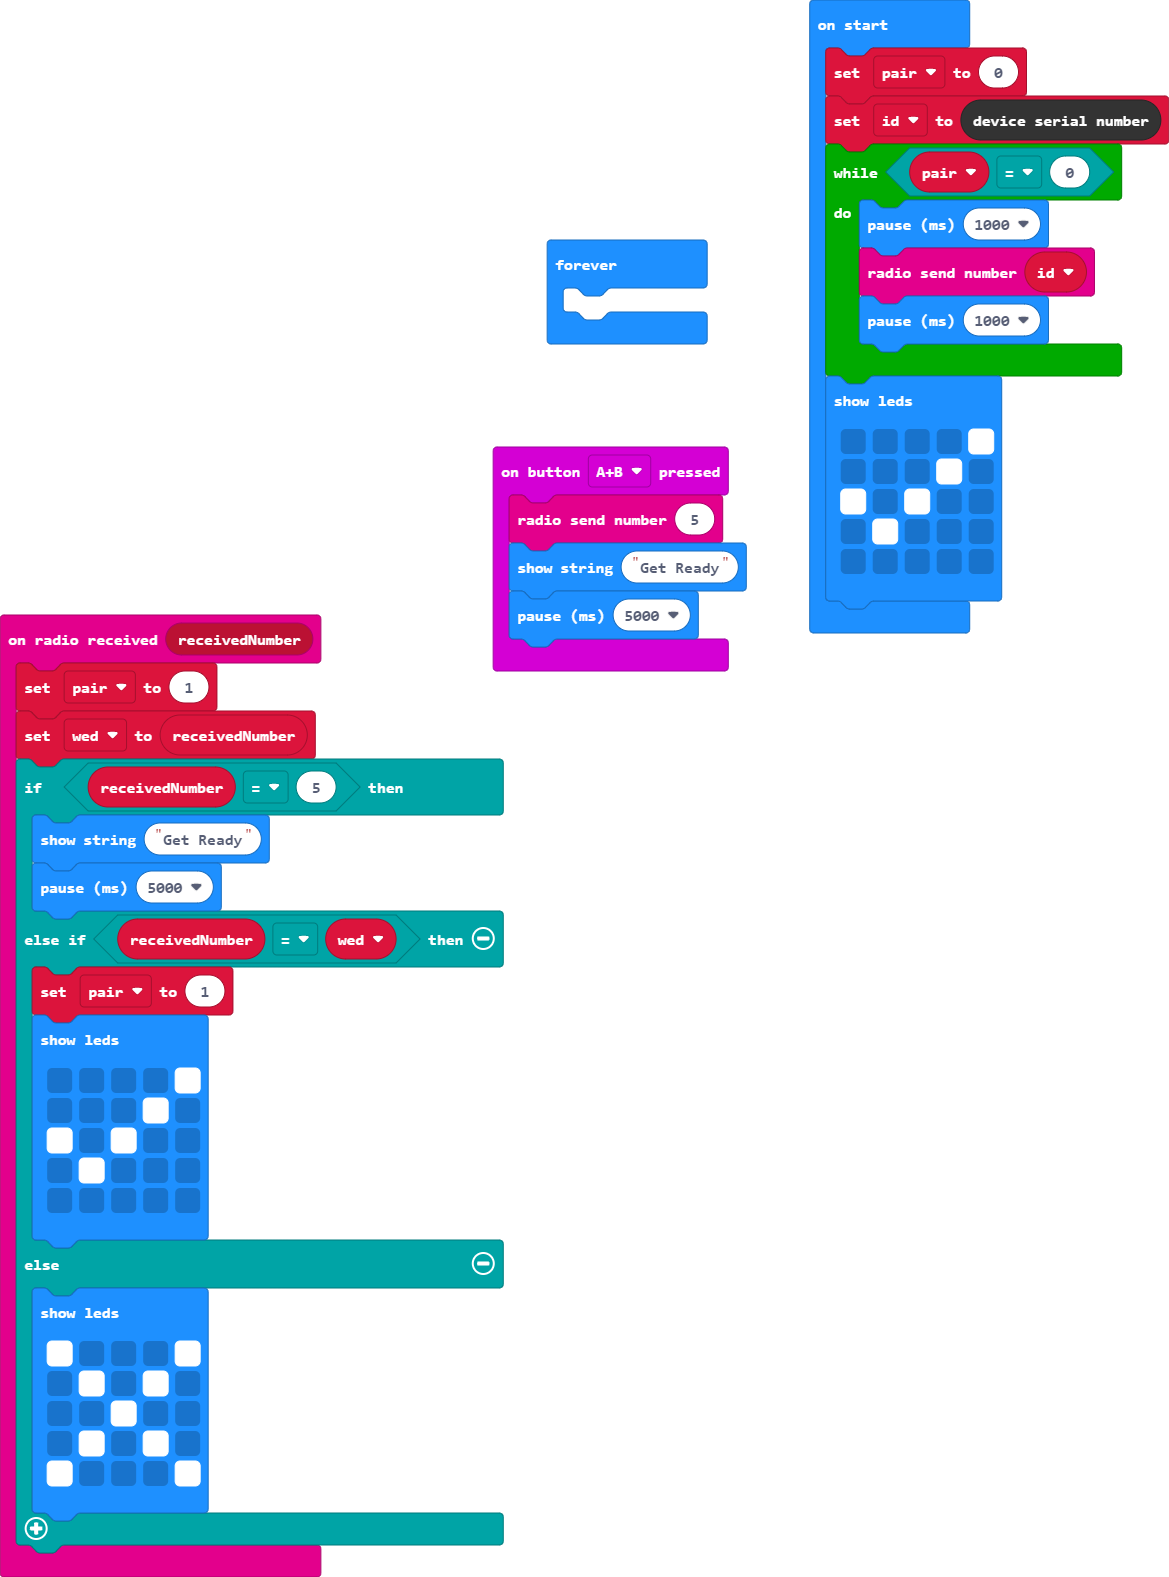
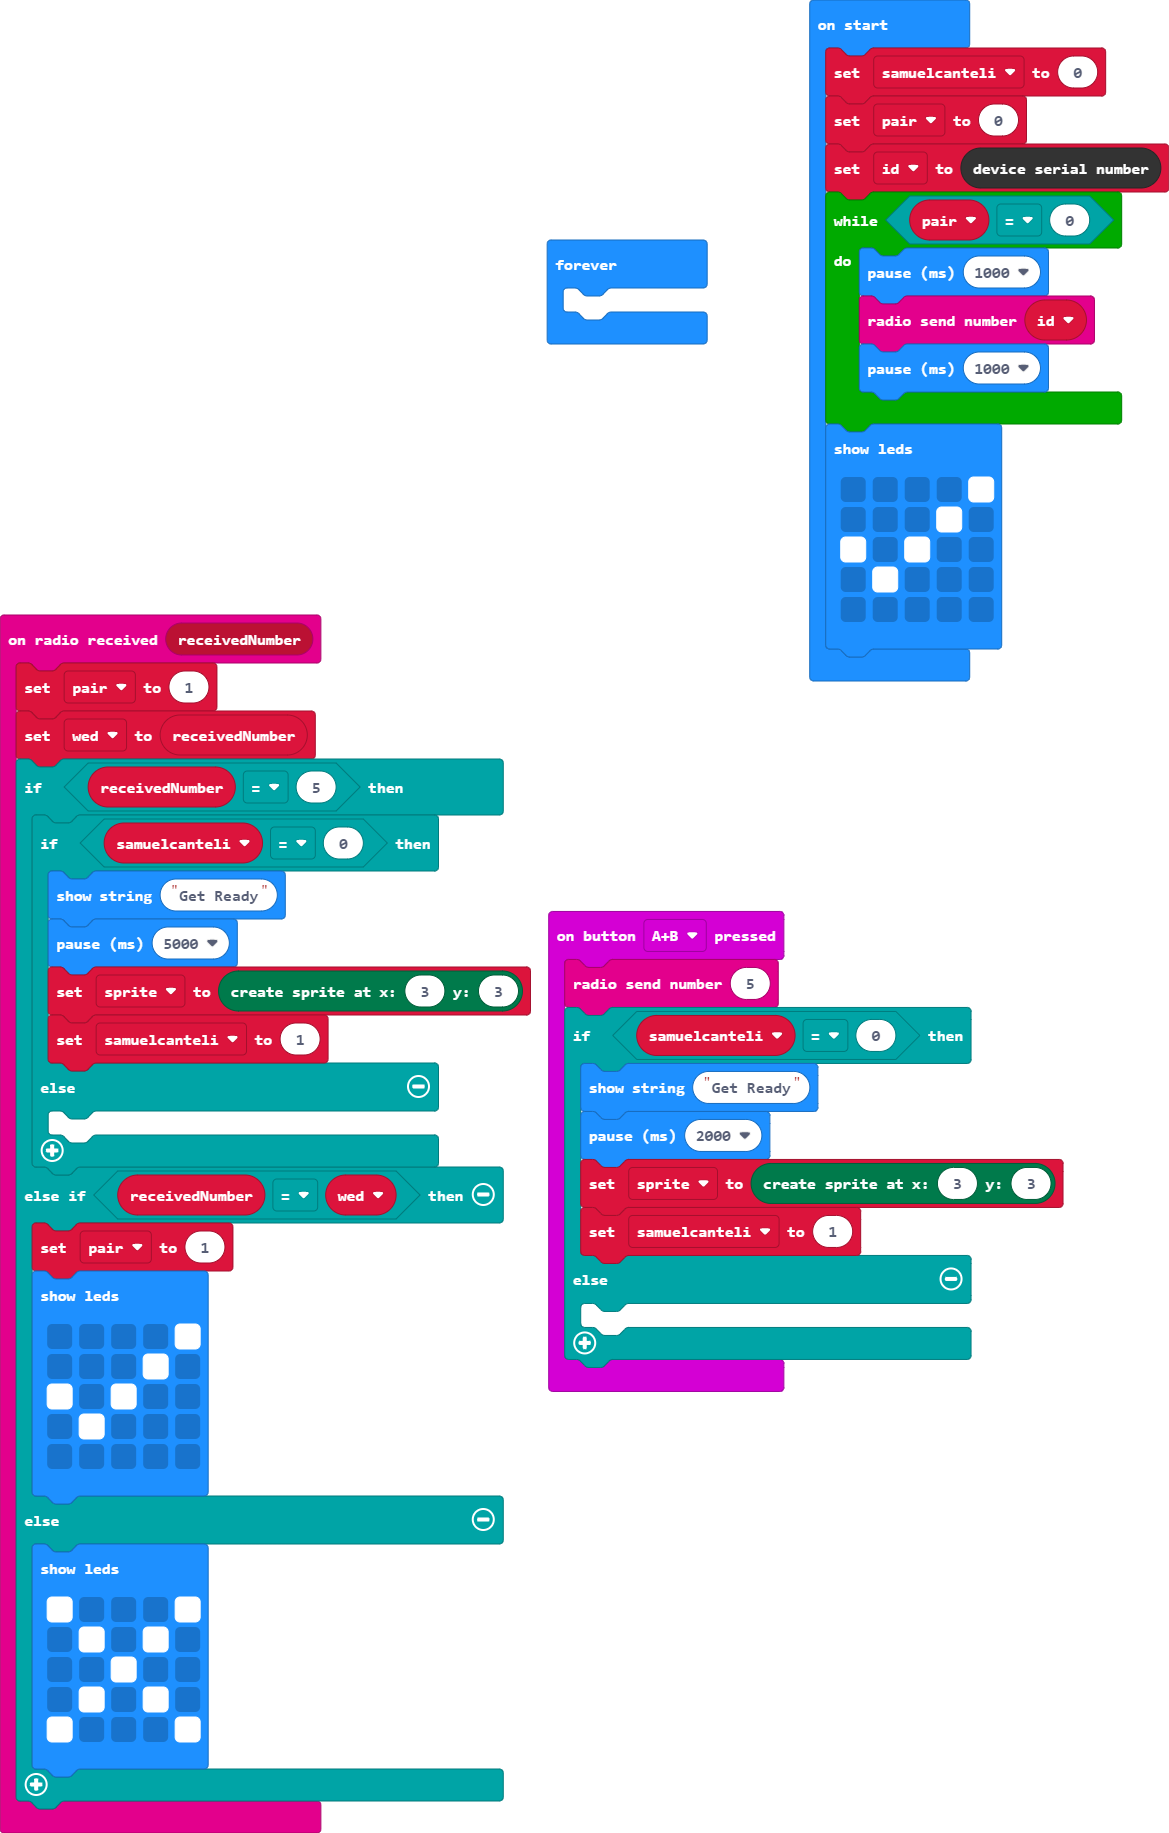
SamuelCantelope

Changed region(s): [[0.0, 0.2796, 0.9239, 0.9943], [0.6775, 0.0, 1.0, 0.4039], [0.4619, 0.1243, 0.6159, 0.2175]]

diff --git a/main.ts b/main.ts
@@ -2,8 +2,14 @@ radio.onReceivedNumber(function (receivedNumber) {
     pair = 1
     wed = receivedNumber
     if (receivedNumber == 5) {
-        basic.showString("Get Ready")
-        basic.pause(5000)
+        if (samuelcanteli == 0) {
+            basic.showString("Get Ready")
+            basic.pause(5000)
+            sprite = game.createSprite(3, 3)
+            samuelcanteli = 1
+        } else {
+        	
+        }
     } else if (receivedNumber == wed) {
         pair = 1
         basic.showLeds(`
@@ -25,11 +31,20 @@ radio.onReceivedNumber(function (receivedNumber) {
 })
 input.onButtonPressed(Button.AB, function () {
     radio.sendNumber(5)
-    basic.showString("Get Ready")
-    basic.pause(5000)
+    if (samuelcanteli == 0) {
+        basic.showString("Get Ready")
+        basic.pause(2000)
+        sprite = game.createSprite(3, 3)
+        samuelcanteli = 1
+    } else {
+    	
+    }
 })
+let sprite: game.LedSprite = null
 let wed = 0
 let pair = 0
+let samuelcanteli = 0
+samuelcanteli = 0
 pair = 0
 let id = control.deviceSerialNumber()
 while (pair == 0) {
